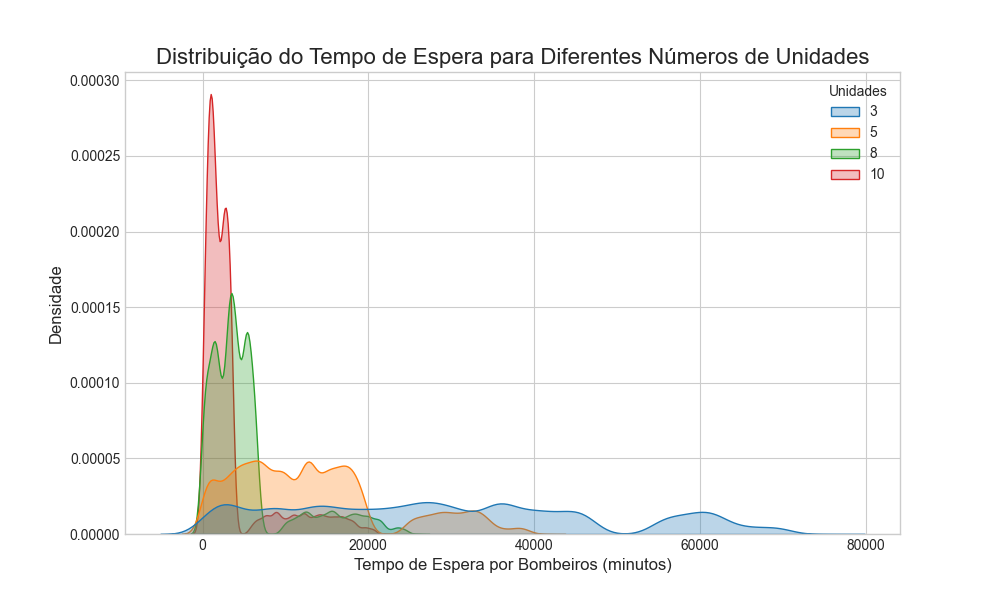
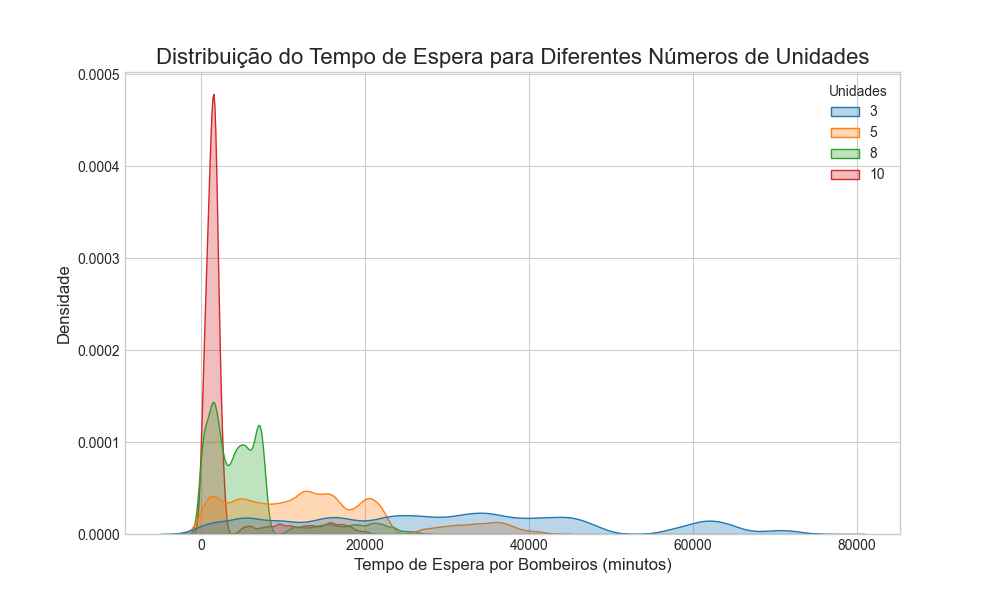
feat: simulando com a distribuicao do tempo de atendimento para chamados simples

diff --git a/main.py b/main.py
@@ -26,7 +26,8 @@ def main():
         for col in timestamp_cols:
             df[col] = pd.to_datetime(df[col], errors='coerce')
         
-        df.dropna(subset=timestamp_cols, inplace=True)
+        df['Final Priority'] = pd.to_numeric(df['Final Priority'], errors='coerce')
+        df.dropna(subset=timestamp_cols + ['Call Type Group', 'Final Priority'], inplace=True)
         
     except FileNotFoundError:
         print(f"ERRO: Dataset não encontrado em '{config.DATASET_PATH}'. Verifique o caminho.")
@@ -43,7 +44,25 @@ def main():
     dist_servico_bombeiros = find_best_distribution(df[df['on_scene_time'] > 0]['on_scene_time'].rename("Tempo de Serviço no Local"))
     
     df['operator_duration'] = (df['Entry DtTm'] - df['Received DtTm']).dt.total_seconds() / 60.0
-    dist_atendimento_operador = find_best_distribution(df[df['operator_duration'] > 0]['operator_duration'].rename("Duração Atendimento Operador"))
+    dist_atendimento_humano = find_best_distribution(df[df['operator_duration'] > 0]['operator_duration'].rename("Duração Atendimento Humano (Complexo)"))
+
+    # --- CORREÇÃO PRINCIPAL AQUI ---
+    # Tempo de Atendimento do Operador (APENAS para casos simples, alinhado com o KDD)
+    
+    # Primeiro, calculamos o limite de outlier, exatamente como no KDD
+    df['incident_duration'] = (df['Available DtTm'] - df['Received DtTm']).dt.total_seconds() / 60.0
+    Q3 = df['incident_duration'].quantile(0.75)
+    IQR = Q3 - df['incident_duration'].quantile(0.25)
+    upper_bound = Q3 + 1.5 * IQR
+    
+    # Agora, aplicamos a máscara com os TRÊS critérios
+    regra_prioridade = (df['Final Priority'] < 3)
+    regra_grupo = (~df['Call Type Group'].isin(['Fire', 'Alarms']))
+    regra_outlier = (df['incident_duration'] <= upper_bound)
+    
+    df_simples_mask = (regra_prioridade & regra_grupo & regra_outlier)
+    
+    dist_atendimento_simples = find_best_distribution(df[df_simples_mask & (df['operator_duration'] > 0)]['operator_duration'].rename("Duração Atendimento Humano (Simples)"))
     
     # 3. Gerar cenários e instanciar o agente de IA
     print("\n[ETAPA 3/5] Gerando cenários e inicializando o agente de IA...")
@@ -57,7 +76,8 @@ def main():
     
     dists = {
         "chegadas": dist_chegadas,
-        "atendimento_operador": dist_atendimento_operador,
+        "atendimento_humano": dist_atendimento_humano,
+        "atendimento_simples": dist_atendimento_simples,
         "servico_bombeiros": dist_servico_bombeiros,
     }
     

diff --git a/src/simulation/environment.py b/src/simulation/environment.py
@@ -35,7 +35,7 @@ def chamada(env, nome, central, agente_ia, cenario, distributions, stats_locais)
         print(f"{env.now:.2f}: {nome} (Classificado como Simples) sendo atendido por chatbot...")
         
         # Simula o tempo de atendimento do chatbot para coletar informações.
-        tempo_atendimento = get_random_time(distributions['atendimento_operador']) * 0.5
+        tempo_atendimento = get_random_time(distributions['atendimento_simples']) * 0.5
         yield env.timeout(tempo_atendimento)
         
         print(f"{env.now:.2f}: {nome} (Simples) entra na fila para despacho.")
@@ -45,7 +45,7 @@ def chamada(env, nome, central, agente_ia, cenario, distributions, stats_locais)
         print(f"{env.now:.2f}: {nome} (Classificado como Complexo) sendo atendido por humano...")
         
         # Simula o tempo de atendimento de um operador humano.
-        yield env.timeout(get_random_time(distributions['atendimento_operador']))
+        yield env.timeout(get_random_time(distributions['atendimento_humano']))
         
         print(f"{env.now:.2f}: {nome} (Complexo) entra na fila para despacho.")
 
